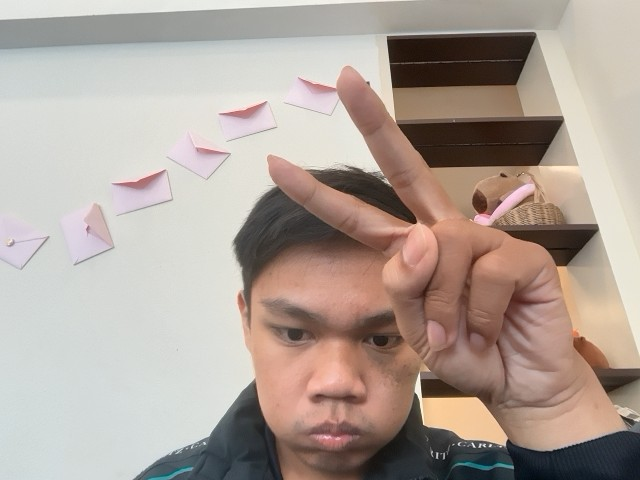
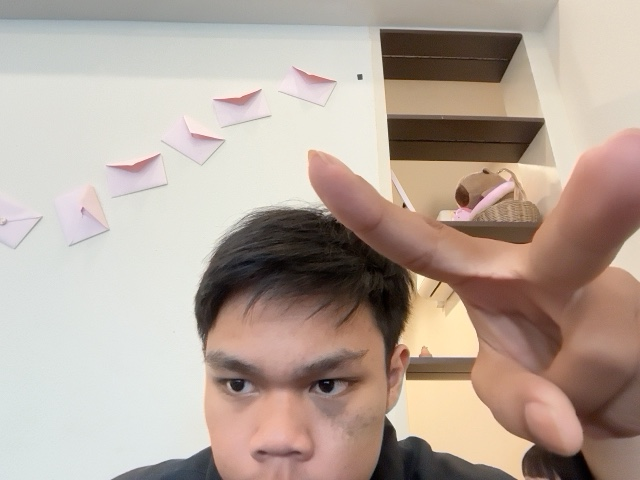
add new table

diff --git a/Frontend/src/pages/Login.jsx b/Frontend/src/pages/Login.jsx
@@ -27,102 +27,50 @@ const Login = () => {
   };
 
   const handleSubmit = async (e) => {
-
     e.preventDefault();
 
     setLoading(true);
     setError("");
 
     try {
+        const response = await fetch("http://127.0.0.1:8000/api/login", {
+            method: "POST",
+            headers: {
+                "Content-Type": "application/json",
+            },
+            body: JSON.stringify(formData),
+        });
 
-      const response = await fetch("http://127.0.0.1:8000/api/login", {
-        method: "POST",
-        headers: {
-          "Content-Type": "application/json",
-        },
-        body: JSON.stringify(formData),
-      });
+        const data = await response.json();
 
-      const data = await response.json();
-
-      if (!response.ok) {
-        setError(data.message || "Login failed.");
-        return;
-      }
-
-      try {
-
-        // Check whether the user has completed their profile
-        const profileResponse = await fetch(
-          `http://127.0.0.1:8000/api/profile/${data.user_id}`
-        );
-
-        if (profileResponse.ok) {
-
-          const profile = await profileResponse.json();
-
-          // Store complete user object
-          localStorage.setItem(
-            "user",
-            JSON.stringify({
-              user_id: data.user_id,
-              email: data.email,
-              firstname: profile.firstname,
-              lastname: profile.lastname,
-              verify_status: profile.verify_status,
-            })
-          );
-
-          // Keep old storage for compatibility
-          localStorage.setItem("user_id", data.user_id);
-          localStorage.setItem("email", data.email);
-
-          alert("Login Successful!");
-          navigate("/Dashboard");
-
-        } else if (profileResponse.status === 404) {
-
-          // User exists but has not completed profile yet
-          localStorage.setItem(
-            "user",
-            JSON.stringify({
-              user_id: data.user_id,
-              email: data.email,
-              verify_status: null,
-            })
-          );
-
-          localStorage.setItem("user_id", data.user_id);
-          localStorage.setItem("email", data.email);
-
-          alert("Please complete your profile first.");
-          navigate("/CompleteProfile");
-
-        } else {
-
-          setError("Unable to verify your profile.");
-
+        if (!response.ok) {
+            setError(data.message || "Login failed.");
+            return;
         }
 
-      } catch (err) {
+        // Store login information
+        localStorage.setItem("user_id", data.user_id);
+        localStorage.setItem("email", data.email);
 
-        console.error(err);
-        setError("Unable to connect to the server.");
+        localStorage.setItem(
+            "user",
+            JSON.stringify({
+                user_id: data.user_id,
+                email: data.email,
+            })
+        );
 
-      }
+        alert("Login Successful!");
+
+        navigate("/Home");
 
     } catch (err) {
-
-      console.error(err);
-      setError("Unable to connect to the server.");
-
+        console.error(err);
+        setError("Unable to connect to the server.");
     } finally {
-
-      setLoading(false);
-
+        setLoading(false);
     }
-
-  };
+};
 
   return (
     <div className="AuthPage">

diff --git a/Frontend/src/Menu/Home/components/Deal/ParticipantsPanel.jsx b/Frontend/src/Menu/Home/components/Deal/ParticipantsPanel.jsx
@@ -1,21 +1,40 @@
 import "./ParticipantsPanel.css";
 
-const ParticipantsPanel = () => {
-    return (
-        <div className="participants-panel">
+const ParticipantsPanel = ({ room }) => {
+  return (
+    <div className="participants-panel">
+      <h2>Participants</h2>
 
-            <h2>Participants</h2>
+      <div className="participant-card">
+        <span className="participant-label">Creator</span>
+        <span>User #{room.created_by}</span>
+      </div>
 
-            <div className="participant-card">
-                👤 You
-            </div>
+      <div className="participant-card">
+        <span className="participant-label">Invited User</span>
+        <span>User #{room.invited_user_id}</span>
+      </div>
 
-            <div className="participant-card">
-                👤 Other User
-            </div>
+      <div className="participant-card">
+        <span className="participant-label">Buyer</span>
+        <span>
+          {room.buyer_id ? `User #${room.buyer_id}` : "Waiting..."}
+        </span>
+      </div>
 
-        </div>
-    );
+      <div className="participant-card">
+        <span className="participant-label">Seller</span>
+        <span>
+          {room.seller_id ? `User #${room.seller_id}` : "Waiting..."}
+        </span>
+      </div>
+
+      <div className="participant-card status-card">
+        <span className="participant-label">Room Status</span>
+        <span>{room.status}</span>
+      </div>
+    </div>
+  );
 };
 
 export default ParticipantsPanel;

diff --git a/Frontend/src/Menu/Home/components/Deal/ParticipantsPanel.css b/Frontend/src/Menu/Home/components/Deal/ParticipantsPanel.css
@@ -1,13 +1,30 @@
-.participants-panel{
-    background:#fff;
-    border-radius:12px;
-    padding:20px;
-    margin-top:20px;
+.participants-panel {
+    background: #fff;
+    border-radius: 12px;
+    padding: 20px;
+    margin-top: 20px;
+    box-shadow: 0 2px 8px rgba(0,0,0,.08);
 }
 
-.participant-card{
-    padding:12px;
-    border:1px solid #ddd;
-    border-radius:8px;
-    margin-top:10px;
+.participants-panel h2 {
+    margin-bottom: 15px;
+}
+
+.participant-card {
+    display: flex;
+    justify-content: space-between;
+    align-items: center;
+    padding: 14px;
+    border: 1px solid #e5e5e5;
+    border-radius: 10px;
+    margin-bottom: 12px;
+}
+
+.participant-label {
+    font-weight: 600;
+}
+
+.status-card {
+    background: #f8f9fa;
+    border-left: 4px solid #6f42c1;
 }

diff --git a/Frontend/src/pages/Register.jsx b/Frontend/src/pages/Register.jsx
@@ -37,7 +37,7 @@ const Register = () => {
     setLoading(true);
 
     try {
-      const response = await fetch("http://127.0.0.1:8000/api/register/", {
+      const response = await fetch("http://127.0.0.1:8000/api/register", {
         method: "POST",
         headers: {
           "Content-Type": "application/json",

diff --git a/Backend/myproject/p2p_deal_app/admin/tempCodeRunnerFile.py b/Backend/myproject/p2p_deal_app/admin/tempCodeRunnerFile.py
@@ -1,0 +1,1 @@
+admin123
